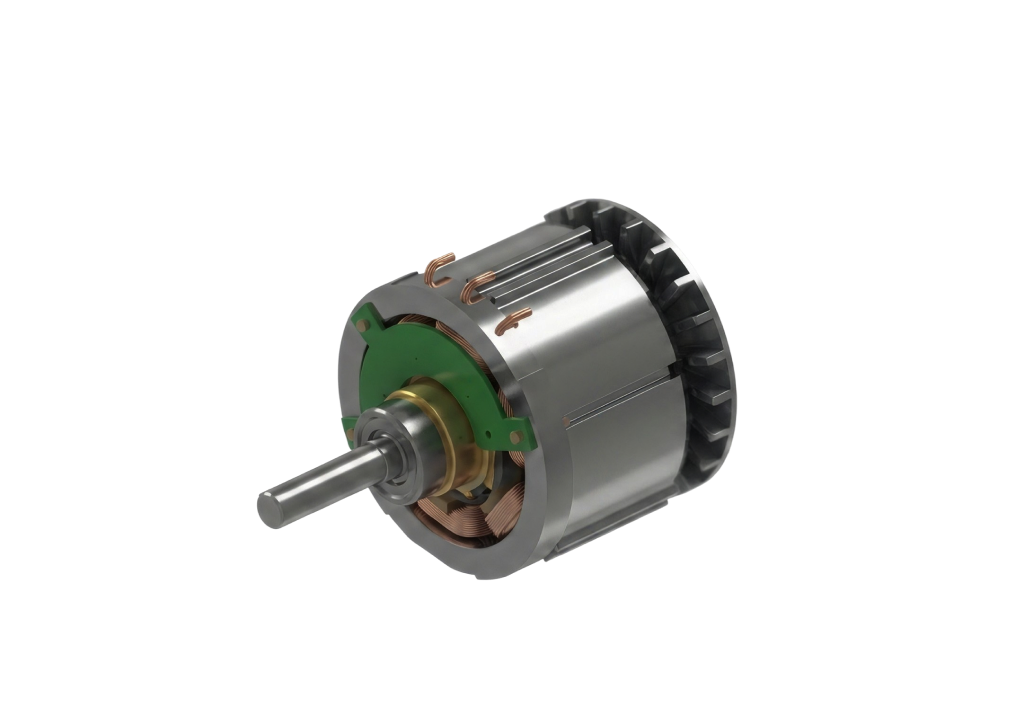
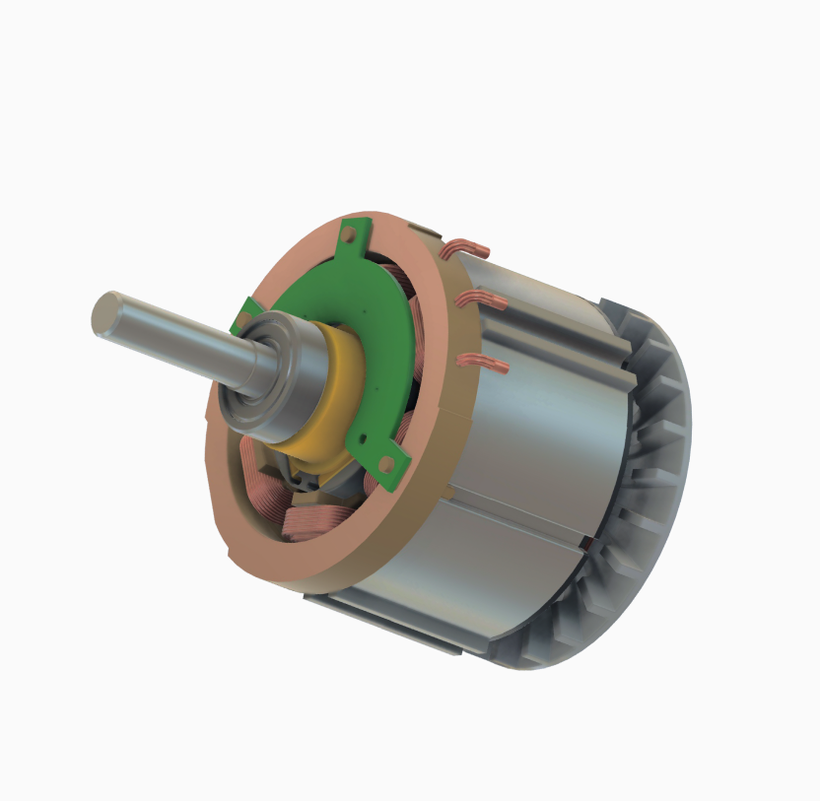
products: listing card photos - correct per-family render on every card
Each /products card now shows the family's default-variant motor, matching the Figma
listing artboard: RF 15/22/33/55 standard finned, RF 66 squat (was a finned render),
AF 58 disc, PT-500 cutaway (RF 33/55 were on a wrong second-angle render).

Card renders are downscaled from the same per-family renders established on the detail
pages (~200-400KB each vs the 1.5MB detail PNGs) so the listing stays lightweight; the
old generic card-rf-a/-b assets are removed. FamilyCard/hero/filter/explorer unchanged.

Changed region(s): [[0.0915, 0.2431, 0.8537, 0.8508]]

diff --git a/src/data/products/index.js b/src/data/products/index.js
@@ -8,6 +8,9 @@
 // placeholder ordering — the listing artboard shows only industry chips, not per-family numbers.
 // Real figures come from Tushar's datasheets; the filter is fully functional against these.
 const L = (file) => `/assets/products/listing/${file}`
+// Each listing card render is the family's default-variant motor, downscaled from the same per-family
+// renders used on the detail pages (RF 15/22/33/55 standard finned, RF 66 squat, AF 58 disc, PT-500
+// cutaway) so the photo matches the artboard while keeping the listing lightweight.
 
 // Industry chip metadata (icon + label), keyed by the slug used in family.industries.
 export const industries = {
@@ -32,10 +35,10 @@ export const seriesTabs = ['RF', 'AF', 'PT']
 
 // Grid order on the /products listing, top to bottom, left to right.
 export const productFamilies = [
-  { slug: 'rf15', name: 'Antarix RF 15', series: 'RF', brand: 'Antarix', tagline: 'Compact | Efficient | Versatile', card: { image: L('card-rf-a.png') }, industries: ['cleaning', 'agriculture', '2-wheeler'], spec: { voltage: 72, power: 1.5, torque: 6.5 } },
-  { slug: 'rf22', name: 'Antarix RF 22', series: 'RF', brand: 'Antarix', tagline: 'Compact | Efficient | Versatile', card: { image: L('card-rf-a.png') }, industries: ['2-wheeler', 'agriculture', '3-wheeler'], spec: { voltage: 72, power: 2.2, torque: 9.5 } },
-  { slug: 'rf33', name: 'Antarix RF 33', series: 'RF', brand: 'Antarix', tagline: 'Compact | Efficient | Versatile', card: { image: L('card-rf-b.png') }, industries: ['cleaning', 'agriculture', '2-wheeler'], spec: { voltage: 72, power: 3.3, torque: 10.5 } },
-  { slug: 'rf55', name: 'Antarix RF 55', series: 'RF', brand: 'Antarix', tagline: 'Compact | Efficient | Versatile', card: { image: L('card-rf-b.png') }, industries: ['2-wheeler', 'agriculture', '3-wheeler'], spec: { voltage: 72, power: 5.5, torque: 10.5 } },
+  { slug: 'rf15', name: 'Antarix RF 15', series: 'RF', brand: 'Antarix', tagline: 'Compact | Efficient | Versatile', card: { image: L('card-standard.png') }, industries: ['cleaning', 'agriculture', '2-wheeler'], spec: { voltage: 72, power: 1.5, torque: 6.5 } },
+  { slug: 'rf22', name: 'Antarix RF 22', series: 'RF', brand: 'Antarix', tagline: 'Compact | Efficient | Versatile', card: { image: L('card-standard.png') }, industries: ['2-wheeler', 'agriculture', '3-wheeler'], spec: { voltage: 72, power: 2.2, torque: 9.5 } },
+  { slug: 'rf33', name: 'Antarix RF 33', series: 'RF', brand: 'Antarix', tagline: 'Compact | Efficient | Versatile', card: { image: L('card-standard.png') }, industries: ['cleaning', 'agriculture', '2-wheeler'], spec: { voltage: 72, power: 3.3, torque: 10.5 } },
+  { slug: 'rf55', name: 'Antarix RF 55', series: 'RF', brand: 'Antarix', tagline: 'Compact | Efficient | Versatile', card: { image: L('card-standard.png') }, industries: ['2-wheeler', 'agriculture', '3-wheeler'], spec: { voltage: 72, power: 5.5, torque: 10.5 } },
   { slug: 'rf66', name: 'Antarix RF 66', series: 'RF', brand: 'Antarix', tagline: 'Compact | Efficient | Versatile', card: { image: L('card-rf66.png') }, industries: ['2-wheeler', 'agriculture', '3-wheeler'], spec: { voltage: 72, power: 14, torque: 16 } },
   { slug: 'af58', name: 'Antarix AF 58', series: 'AF', brand: 'Antarix', tagline: 'Compact | Efficient | Versatile', card: { image: L('card-af58.png') }, industries: ['2-wheeler', '3-wheeler'], spec: { voltage: 72, power: 5.8, torque: 60 } },
   { slug: 'pt500', name: 'PT - 500', series: 'PT', brand: 'PT', tagline: 'Compact | Efficient | Versatile', card: { image: L('card-pt500.png') }, industries: ['industrial-tools'], spec: { voltage: 18, power: 0.05, torque: 0.5 } },
